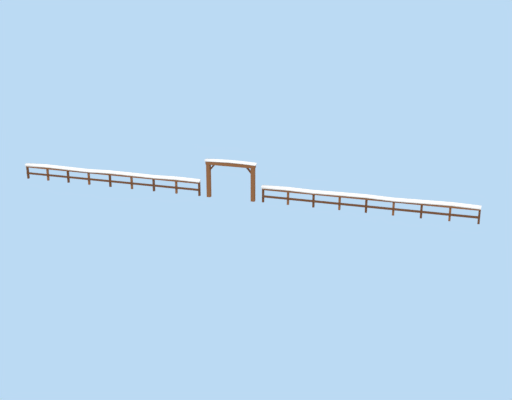
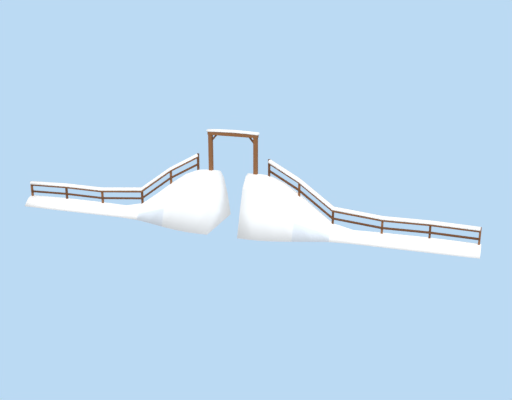
4-3: nothing floats at the snow fence and the two records
The snow fence at main 2740 stands where the track runs 8.35 m over the
ground on its snowy bank: each wing now stands on a long smooth snowdrift
(part of the model) from the bank's shoulder by the gate down to the
ground, its posts, rails and roll of snow following the drift down. The
drop comes from the stage JSON (the fence's place on main, the bank's
profile as rail-mesh.ts builds it, the ground's height); the origin stays
at the gate's foot, so models.json marks it "origin": "joint" (budget 1000).

layout-4-3.mjs gets snowY(): the bank, the ridge or the ground, whichever
is highest. Record 3 (the sleigh bells) is now half buried in the bank's
shoulder 2.4 m left of main 1830, seen from the cab and clear of the train;
record 1 (the hare) lies on the ground instead of at the rail's height.

Claude-Session: https://claude.ai/code/session_01DufJAw4fQ6tTfsoi3dumzG

Changed region(s): [[0.0312, 0.3, 0.9375, 0.66]]

diff --git a/assets/blender/snow.py b/assets/blender/snow.py
@@ -30,8 +30,10 @@ change; origin at the bottom centre, +Z forward, the model's own left is +X):
 - ice-pillar 3 x 18 x 3, fake-exit 10 x 8 x 1.1 (picture +Z; materials "fake-exit-light" and "fake-exit-swirl", which
   the game swaps for a light the fog does not hide and the swirl it lights when the light sees through it,
   src/view/three/snow-models.ts), exit-glow 8 x 7 (both sides, material "exit-glow", made a fog-free light by the game).
-- snow-fence 70.3 x 5.8 x 0.8: a gate over the track (6.3 m clear between the posts, 5 m under the beam) and a wooden
-  fence 30 m each side along X.
+- snow-fence 70.6 x 14.5 x 9.8: a gate over the track (6.3 m clear between the posts, 5 m under the beam) and a wooden
+  fence 30 m each side along X, each wing on a snowdrift down the track's snowy bank to the ground. Its origin stays at
+  the gate's foot (y 0, as the stand-in's); the drifts reach the ground below it (8.35 m at 4-3's main 2740, read from
+  the stage JSON), so models.json marks it "origin": "joint".
 - lodge 14 x 10 x 10: a log cabin, door +Z.
 - Records snow-hare 0.6 x 0.55 x 0.8, ice-flower 1.2 x 0.72 x 1.04, sleigh-bell 0.5 x 0.49 x 0.45 (the flower and the
   bells scaled evenly to their width).
@@ -1025,34 +1027,92 @@ def fake_exit():
 
 # ---------------------------------------------------------------- the way down
 
+# The snowy bank rail-mesh.ts builds under a track with a `toGround` base: the ballast's foot 2.2 m out from the rail,
+# 0.6 m under it, then down 2 m for every 1 m out to the ground.
+BANK_FOOT_OUT, BANK_FOOT_DOWN, BANK_SLOPE = 2.2, 0.6, 2.0
+
+
+def fence_site():
+    """Where 4-3 puts the snow fence (its prop on main at the chase's fence): how far the ground lies under the model's
+    origin, and how far under it the bank's ballast foot is (both from src/stages/4-3.json)."""
+    data = stage_json()
+    on = prop_of("snow-fence")["onRail"]
+    (_, rail_y, _), _ = rail_at(on["railId"], on["at"])
+    origin = rail_y + on.get("heightFromRail", 0.0)
+    ground = data["environment"]["ground"]["y"]
+    return origin - ground, origin - (rail_y - BANK_FOOT_DOWN)
+
+
 def snow_fence():
     """ゆきよけの さく: where the snow wave runs into it and stops. A wooden gate over the track (posts 6.3 m apart, a
-    beam 5 m over the rail with a little roof of snow on it) and a fence 30 m each side along X: posts with snowy tops,
-    two rails, a long soft roll of snow along the top rail."""
+    beam 5 m over the rail with a soft roof of snow) and a fence 30 m each side along X. 4-3 stands it where the track
+    runs on its snowy bank 8.75 m over the ground, so each wing stands on a long smooth snowdrift (part of the model) that
+    starts at the bank's shoulder by the gate, runs down the bank and on along the ground (its foot buried a little):
+    the fence's posts, rails and the roll of snow on them follow the drift's top down. The drift is one smooth ridge of
+    snow piled against the fence, nothing like the wave's round balls."""
     paint = snow_paint(0.85)
     parts: list = []
     wood, dark = paint(FENCE), paint(FENCE_DARK)
+    drop, foot = fence_site()
+    ground = -drop
+    shoulder_x, shoulder_y = BANK_FOOT_OUT + 0.1, -foot - 0.12
+    level_x, run = 4.4, drop * 1.6
+    end_x, rest = 35.3, 1.0
+
+    def top(x):
+        """The drift's top (model y) `x` m out from the track: level by the gate, smoothly down to the ground's drift."""
+        t = max(0.0, min(1.0, (x - level_x) / run))
+        t = t * t * (3 - 2 * t)
+        wobble = 0.12 * math.sin(x * 0.7) * t
+        return shoulder_y + (ground + rest - shoulder_y) * t + wobble
+
+    stations = [shoulder_x, level_x, 5.5, 7.5, 10.0, 12.5, 15.0, 18.0, 22.0, 28.5, end_x]
+    posts = [5.5, 10.0, 15.0, 22.0, 28.5, end_x - 0.3]
     for side in (-1, 1):
-        k.add_box(parts, f"gate-post-{side}", (0.55, 5.0, 0.55), (side * 3.45, 2.5, 0.0), wood)
-        bobble(parts, f"gate-post-snow-{side}", (side * 3.45, 5.55, 0.0), (0.42, 0.18, 0.4), paint(SNOW), 50 + side, rough=0.08)
-        # Posts every 3.75 m (each with a little cap of snow), two rails along them.
-        for p in range(9):
-            x = side * (5.0 + p * 3.75)
-            k.add_box(parts, f"post-{side}-{p}", (0.28, 2.45, 0.28), (x, 1.225, 0.0), wood if p % 2 else dark)
-        for y in (0.95, 2.05):
-            k.add_box(parts, f"rail-{side}-{y}", (30.2, 0.3, 0.14), (side * 20.0, y, 0.18), dark if y < 1 else wood)
-        roll = []
-        for i in range(9):
-            x = side * (4.85 + 30.3 * i / 8)
-            roll.append((x, 2.36 + 0.06 * math.sin(i * 2.1), 0.08 + 0.05 * math.cos(i * 1.3)))
+        # The drift: a loft along X of smooth cross-sections (z, y) round its ridge at z = 0, wider the taller it is.
+        rings = []
+        bottom = ground - 0.3
+        for x in stations:
+            y_top = top(x)
+            height = y_top - bottom
+            half = 1.4 + 0.42 * height
+            lean = 0.15 * math.sin(x * 0.45)
+            section = [(-half, bottom), (-0.74 * half, bottom + 0.45 * height), (-0.48 * half + lean, bottom + 0.8 * height),
+                       (-0.2 * half + lean, bottom + 0.97 * height), (lean, y_top), (0.2 * half + lean, bottom + 0.97 * height),
+                       (0.48 * half + lean, bottom + 0.8 * height), (0.74 * half, bottom + 0.45 * height), (half, bottom)]
+            rings.append([(side * x, y, z) for z, y in section])
+        n = len(rings[0])
+        verts = [p for ring in rings for p in ring]
+        faces = [tuple(range(n - 1, -1, -1))]
+        for i in range(len(rings) - 1):
+            faces += s.ring_faces(i * n, (i + 1) * n, n)
+        last = (len(rings) - 1) * n
+        faces.append(tuple(range(last, last + n)))
+
+        def drift_colour(c, nm, bottom=bottom):
+            rise = c.y - bottom
+            return SNOW if nm.y > 0.55 else (SNOW_SOFT if rise > 1.2 else SNOW_SHADE)
+        v.painted(parts, f"drift-{side}", verts, faces, paint, drift_colour, smooth=lambda c, nm: True)
+        # Posts standing in the drift's top, the two rails and the roll of snow on the top rail following it down.
+        for p, x in enumerate(posts):
+            y0 = top(x)
+            k.add_box(parts, f"post-{side}-{p}", (0.28, 2.7, 0.28), (side * x, y0 + 1.1, 0.0), wood if p % 2 else dark)
+        for name, rise, material in (("low", 0.85, dark), ("high", 1.95, wood)):
+            line = [(side * x, top(x) + rise, 0.18) for x in posts]
+            strip(parts, f"rail-{name}-{side}", line, 0.3, 0.14, (0, 0, 1), paint, lambda i, m=material: m.name.replace("Flat ", ""))
+        roll = [(side * x, top(x) + 2.3 + 0.05 * math.sin(x), 0.08) for x in posts]
         strip(parts, f"snow-roll-{side}", roll, 0.56, 0.4, (0, 1, 0), paint, lambda i: SNOW)
+    # The gate: its posts stand on the drift by the track.
+    for side in (-1, 1):
+        y0 = top(3.45) - 0.25
+        k.add_box(parts, f"gate-post-{side}", (0.55, 5.0 - y0, 0.55), (side * 3.45, (5.0 + y0) / 2, 0.0), wood)
+        bobble(parts, f"gate-post-snow-{side}", (side * 3.45, 5.55, 0.0), (0.42, 0.18, 0.4), paint(SNOW), 50 + side, rough=0.08)
     k.add_box(parts, "beam", (7.6, 0.45, 0.6), (0.0, 5.22, 0.0), wood)
-    # The snow on the beam, a soft roof with a drip each end.
     roll = [(-3.9, 5.58, 0.0), (-2.0, 5.66, 0.02), (0.0, 5.7, 0.0), (2.0, 5.66, -0.02), (3.9, 5.58, 0.0)]
     strip(parts, "beam-snow", roll, 0.72, 0.28, (0, 1, 0), paint, lambda i: SNOW)
     for side in (-1, 1):
         k.add_box(parts, f"brace-{side}", (0.22, 1.3, 0.22), (side * 2.85, 4.62, 0.0), dark).rotation_euler = (0.0, -side * 0.7, 0.0)
-    return parts, 600
+    return parts, 1000
 
 
 def lodge():
@@ -1245,7 +1305,7 @@ def export_glb(model, name, budget, max_kb=250):
     tris, lo, hi = k.model_metrics(model)
     if tris > budget:
         raise RuntimeError(f"{name}: {tris} triangles exceeds budget {budget}")
-    if abs(lo[1]) > 0.012:
+    if abs(lo[1]) > 0.012 and name not in BELOW_ORIGIN:
         raise RuntimeError(f"{name}: lowest point y={lo[1]:.3f}, not on the floor")
     k.MODEL_DIR.mkdir(parents=True, exist_ok=True)
     k.active(model)
@@ -1360,6 +1420,9 @@ BUILDERS = {"snow-wave": snow_wave, "snow-wave-small": lambda: snow_wave(0.5, "s
 # the hall and the fence are modelled about their middle).
 KEEP_XZ = {"tunnel-portal", "snowman", "snowman-big", "snowman-upside", "snow-ridge", "snow-knoll", "ice-hall", "fake-exit",
            "exit-glow", "snow-fence", "lodge"}
+# Origins not on the model's lowest point: the fence's origin is the gate's foot by the rail (the stage places it
+# 0.4 m under the rail); its drifts reach down to the ground below the bank ("origin": "joint" in assets/models.json).
+BELOW_ORIGIN = {"snow-fence"}
 # Exact sizes (w, h, d) the round hand-made shapes are trimmed to (the stand-ins' or the ticket's).
 EXACT = {"ice-pillar": (3.0, 18.0, 3.0), "snow-hare": (0.6, 0.55, 0.8), "snow-wave": (36.0, 9.0, 16.0),
          "snow-wave-small": (18.0, 4.5, 8.0)}
@@ -1388,7 +1451,8 @@ if __name__ == "__main__":
             v.scale_to(model, tuple((hi[i] - lo[i]) * f for i in range(3)))
         if name not in KEEP_XZ:
             r.centre_xz(model)
-        r.floor_to_zero(model)
+        if name not in BELOW_ORIGIN:
+            r.floor_to_zero(model)
         if name in ("snow-wave", "snow-wave-small"):
             soft_snow(model)
         export_glb(model, name, budget)

diff --git a/docs/ASSET_PIPELINE.md b/docs/ASSET_PIPELINE.md
@@ -53,6 +53,6 @@
 | うみのそこ（3-1） | sandbar / reef / sand-island（すなはま・リーフ・しおふきじま。海の そこに 立つ 台で、上面は 16.2 m の 高さで 平ら。umi が のぼり おりする 端は 線路の 0.4 m 下まで 坂に けずる。リーフの 上面は 76 m、かべは けわしい さんごの 台）、palm（ヤシ。原点は みきの 根もと）、kelp（こんぶ。頂点カラー。ゆれは ゲームが シェーダで つける `src/view/three/sea-models.ts`）、coral-a / coral-b / coral-c（えだ・おうぎ・まるい さんご。水の 中でも 色が のこるよう すこし 光る）、coral-arch（線路を またぐ アーチ。内のり 9 × 7.5 m 以上）、coral-pillar（上面が ちょうど 10.1 m。記録② の 貝が のる）、rock-crack（記録③ の すなの われめ）、whale（動く 部品 body・tail。tail の 原点が つけね (0, 2.4, −5.2)。頂点カラー 1 マテリアルで、ゲームが 1 頭ずつ うすれ用に 写し、自分の 色で すこし 光らせる）、fish-a / fish-b（3-2・3-3 の むれにも）、current-ring（頂点カラーの 1 メッシュ。ゲームが すける マテリアルで 描く）、awa-big / awa-pink（すける ピンクの あわ ＋ ぐるぐるの 帯）、awa-note、記録 rainbow-shell・pearl-clam・iron-star | `sea.py`（`sky.py`・`volcano.py`・`meadow.py` の 道具を 使う） |
 | ほしのうみ（3-3） | cape-rock（みさきの 岩場。上面は y 34.6 で 60 × 110 m の 角の まるい 長方形、平ら。3 か所に おくので 草・花・石は 線路・ホーム・家・とうだいの かからない x > 9 と x < −17 だけ）、lighthouse（とうだい。ガラスの まんなかが ゲームの 灯の 高さ 20.6 m）、harbour-house（屋根 3 色、窓が 光る。6-2 でも つかう）、trench-wall（ほしの みぞの かべ。光る つぶは +Z の 面）、glow-coral、festival-raft（ちょうちん 4 この まんなかが (±2.6, 2.6, ±1.6)。ゲームが そこを 明るく する）、lantern-jelly（くらげの ちょうちん。群れで 泳ぐ）、lantern-post、sea-turtle-sleep / sea-turtle（顔は 目だけ）、記録 starfish・star-sand・festival-bell | `harbour.py`（`sky.py`・`volcano.py` の 道具を 使う） |
 | たきのかわ（3-2） | reed（あし。根もとから 先へ 色が かわる 頂点カラー。5-1 の いけでも）、lily-pad（けしきの はすの はっぱ。切れこみは -Z）・lily-flower、water-weed（みずくさ。リボンは X に ならぶ。いきどまりの カーテン）、islet（なかす。上は y 20 で 平ら、|x| < 7.2。記録①が のる）、rapids（せ。水面は y 0.6、+Z が 上流）、river-bank（駅の 下の すなの 岸）、river-rock、sea-arch（谷の 南の 岩の アーチ。うみの 絵の 板は z −1.2、谷の がけの 手前）、falls-lip（たきの 口の 岩の ひさし。まんなかは ひさしの 下から 白い 水が 出る。前は z −2 まで）、falls-mini（地図の 絵の たき）、stepping-stones（とびいし）、kawa-rock（サカサの 岩。上は y 1.5 で 平ら）、paper-boat（ピンクの かみの ふね。帆に ぐるぐる）、frog（目が いちばん 上。顔は 目だけ）、duck-family（かもの おやこ。おやが +Z、ひな 4 わ）、snow-patch・snow-peak（のこった 雪・遠くの 雪の 山。4 章でも 使える）、記録 blue-feather・jade-stone・fukinotou | `river.py`（`sky.py`・`volcano.py`・`meadow.py` の 道具を 使う） |
-| ゆきやまのトンネル（4-3） | snow-ridge（尾根。面は 仮の 形と 同じ 式で、`scripts/layout-4-3.mjs` の もみの木・トンネルの 屋根の たしかめと そろう。トンネルの 口の ところだけ 雪を 床の 下まで けずり、tunnel-portal の 暗い 板で かくす）、snow-knoll（いけの 小山。いけの 水・かべ・そこは ゲームが 描く）、tunnel-portal（z −2.4〜8.4、+Z が 外。口は 筒と 同じ はば 9・高さ 8。4.3 m 外に 暗い 板（内がわは 明るい））、ice-hall（とじた 殻なので 内がわから 見える。main の 筒が 通る 所に 戸口を あける。ステージは 1.25 倍）、ice-pillar、fake-exit（マテリアル `fake-exit-light`・`fake-exit-swirl` を ゲームが 霧に かくれない 光と ぐるぐるに かえる `src/view/three/snow-models.ts`）、exit-glow（マテリアル `exit-glow`。両面）、snow-fence、lodge、snow-wave / snow-wave-small（まるい 玉 9 ＋ 5、頂点カラーで 下が うすい 水色。顔なし）、snowman / snowman-big / snowman-upside（顔は 目と 小さな はなだけ）、snow-pile、記録 snow-hare・ice-flower・sleigh-bell。てれる サカサ amanojaku-blush は できて いる amanojaku に ほっぺを つけて ゲームが 作る | `snow.py`（`sky.py`・`volcano.py`・`river.py`・`meadow.py` の 道具を 使う） |
+| ゆきやまのトンネル（4-3） | snow-ridge（尾根。面は 仮の 形と 同じ 式で、`scripts/layout-4-3.mjs` の もみの木・トンネルの 屋根の たしかめと そろう。トンネルの 口の ところだけ 雪を 床の 下まで けずり、tunnel-portal の 暗い 板で かくす）、snow-knoll（いけの 小山。いけの 水・かべ・そこは ゲームが 描く）、tunnel-portal（z −2.4〜8.4、+Z が 外。口は 筒と 同じ はば 9・高さ 8。4.3 m 外に 暗い 板（内がわは 明るい））、ice-hall（とじた 殻なので 内がわから 見える。main の 筒が 通る 所に 戸口を あける。ステージは 1.25 倍）、ice-pillar、fake-exit（マテリアル `fake-exit-light`・`fake-exit-swirl` を ゲームが 霧に かくれない 光と ぐるぐるに かえる `src/view/three/snow-models.ts`）、exit-glow（マテリアル `exit-glow`。両面）、snow-fence（ゆきよけの さく。4-3 では 線路が 雪の 土手の 上 8.35 m なので、左右の さくは モデルの 一部の 雪の 吹きだまりに 立って 地面まで 下りる。下りる 高さは ステージ JSON から。原点は 門の 足もとの まま＝`"origin": "joint"`）、lodge、snow-wave / snow-wave-small（まるい 玉 9 ＋ 5、頂点カラーで 下が うすい 水色。顔なし）、snowman / snowman-big / snowman-upside（顔は 目と 小さな はなだけ）、snow-pile、記録 snow-hare・ice-flower・sleigh-bell。てれる サカサ amanojaku-blush は できて いる amanojaku に ほっぺを つけて ゲームが 作る | `snow.py`（`sky.py`・`volcano.py`・`river.py`・`meadow.py` の 道具を 使う） |
 
 名前の `-proto` は、ゲームのコードが参照している名前なので残している（中身は本番用）。

diff --git a/docs/tickets/0017-blender-snow-mountain-set.md b/docs/tickets/0017-blender-snow-mountain-set.md
@@ -1,6 +1,6 @@
 # 0017 Blender: 4-3 ゆきやまのトンネル の モデル一式
 
-- 状態: **完了**（2026-10-18、つくりこみ `assets/blender/snow.py`。下の 18 こ（`snow-pile` も）。`amanojaku-blush` は できて いる `amanojaku` に ほっぺを つけて ゲームが 作る まま。仮の 形 `src/view/three/snow-placeholders.ts` は けした。にせの でぐちの 光と ぐるぐる・出口の 光は `src/view/three/snow-models.ts`。せんろの ゆきだるまは 電車の ほうを 向く よう `scripts/layout-4-3.mjs` で 180° まわした）
+- 状態: **完了**（2026-10-18、つくりこみ `assets/blender/snow.py`。下の 18 こ（`snow-pile` も）。`amanojaku-blush` は できて いる `amanojaku` に ほっぺを つけて ゲームが 作る まま。仮の 形 `src/view/three/snow-placeholders.ts` は けした。にせの でぐちの 光と ぐるぐる・出口の 光は `src/view/three/snow-models.ts`。せんろの ゆきだるまは 電車の ほうを 向く よう `scripts/layout-4-3.mjs` で 180° まわした。2026-10-18 に 宙に 浮いて いた 3 つを 直した: ゆきよけの さく（main 2740、線路が 地面の 8.35 m 上）は 左右の さくが 雪の 吹きだまりに のって 地面まで 下りる 形に（三角形 1,000 まで）、記録③ すずは 土手の 肩（左 2.4 m）に 半分 うまる 所へ、記録① うさぎは 地面の 上へ（どちらも `layout-4-3.mjs` の `snowY` が 土手・尾根・地面の 高い ほうで 決める））
 - 担当: Claude Code
 - 依存: なし（作り方は `docs/ASSET_PIPELINE.md`）
 - 関連: `docs/PHASE8_CHAPTER3_4.md` 第 8 部 §8 見た目・§5.4 配置・§19 実装メモ、`src/view/three/snow.ts`（トンネルの 筒・口・出口の 光・くらさ・ゆきの なみの うごき・にせの でぐちの しるしは ゲームが する）、`scripts/layout-4-3.mjs`（置き場所）
